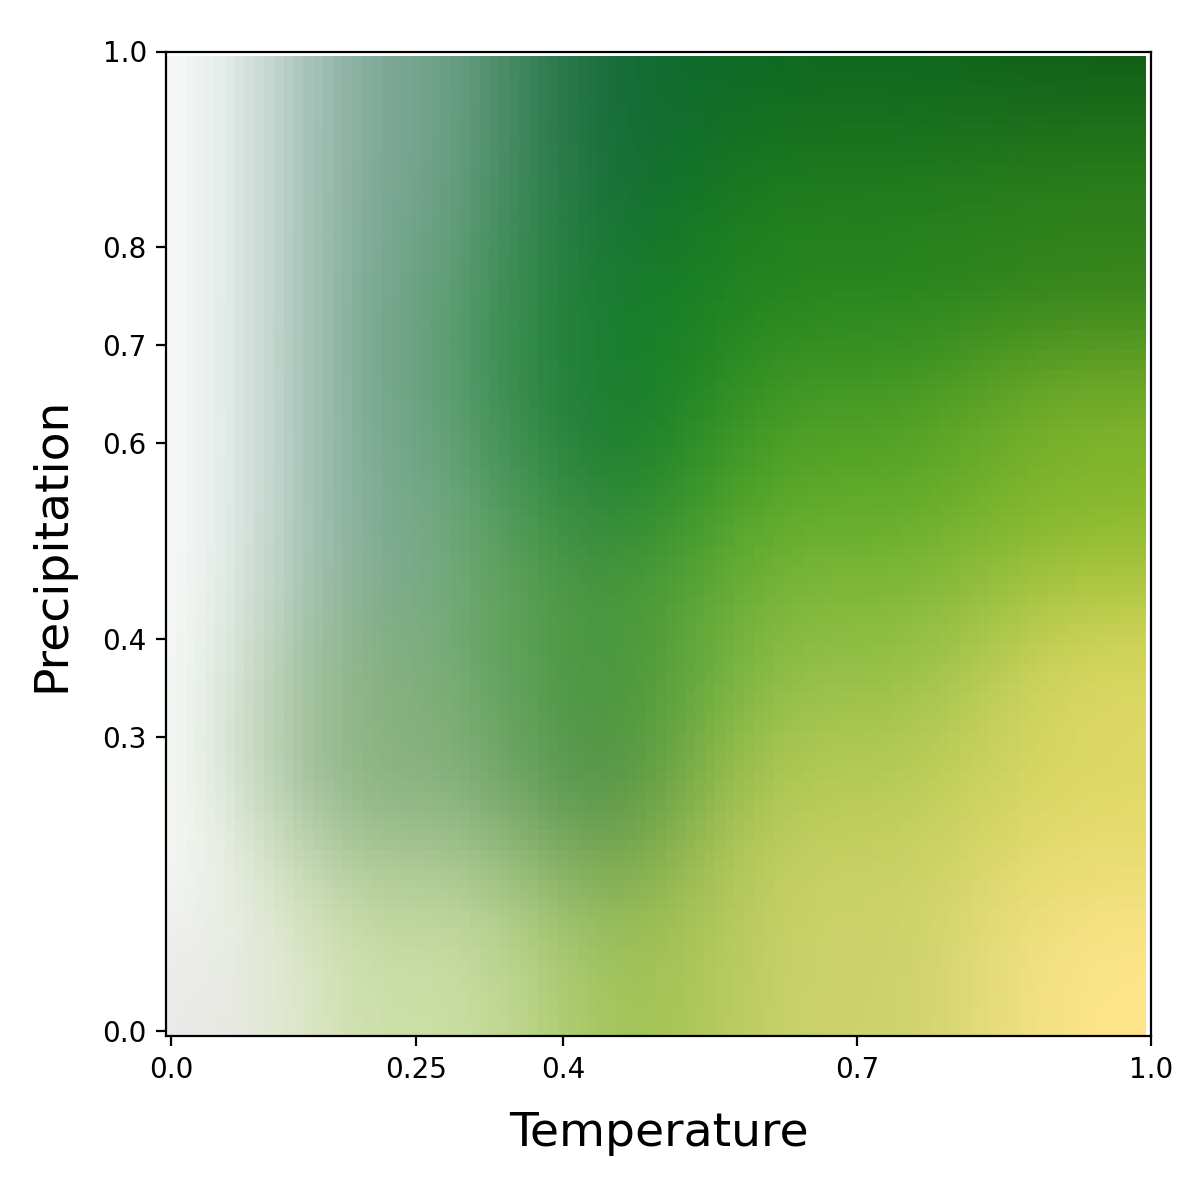
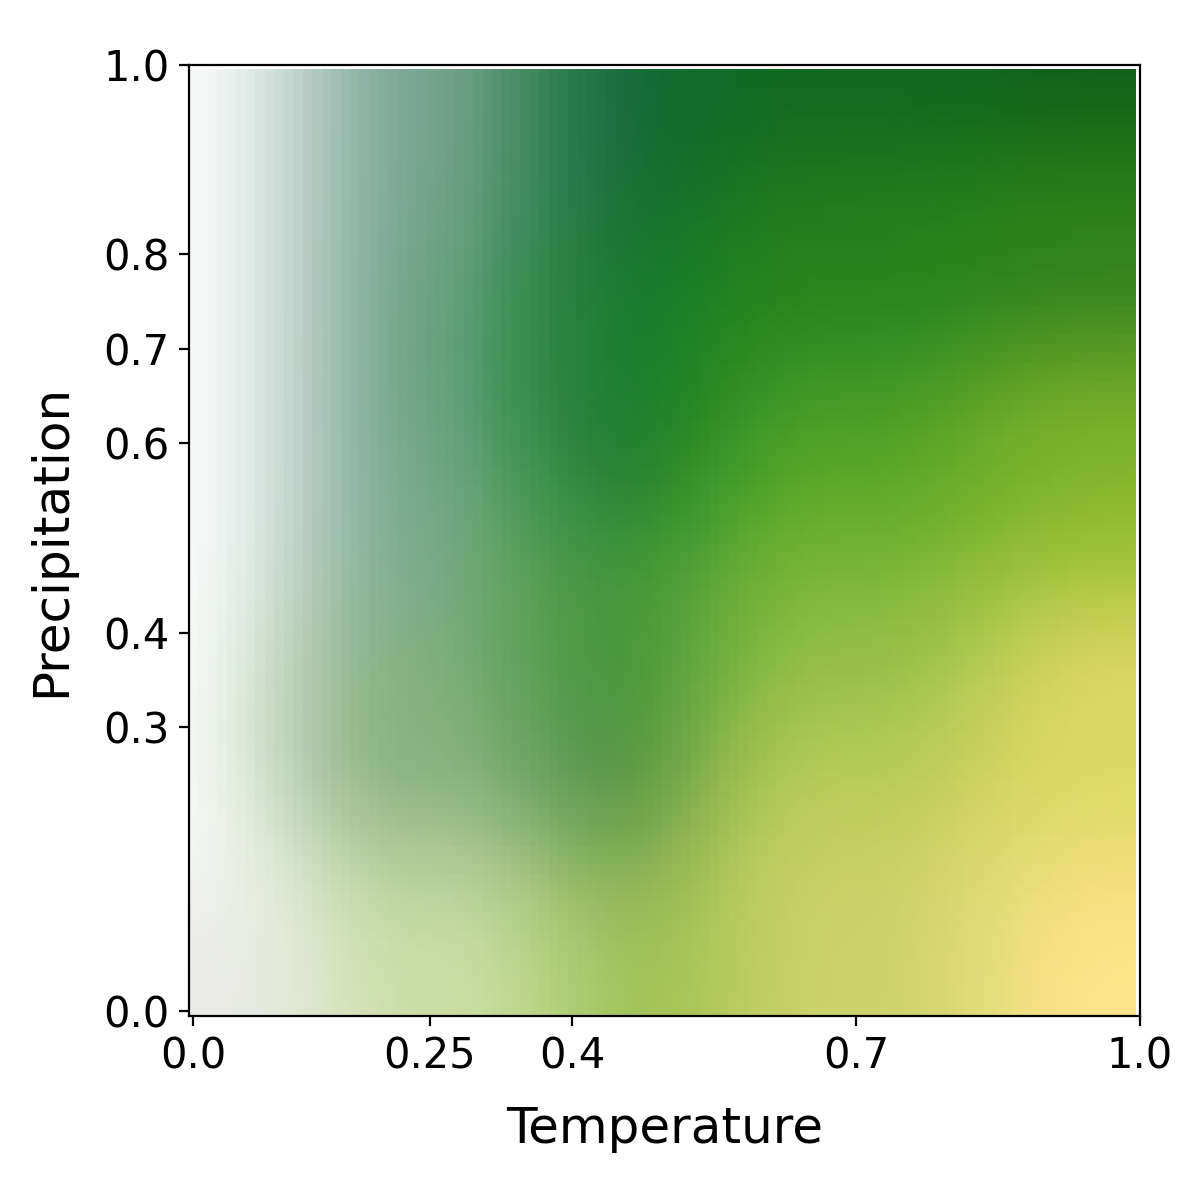
small tweaks to font sizes

Changed region(s): [[0.0617, 0.0308, 0.9867, 0.8942], [0.0308, 0.3083, 0.0617, 0.5858], [0.4317, 0.925, 0.6783, 0.9558]]

diff --git a/visualize_Whittaker_diagram.py b/visualize_Whittaker_diagram.py
@@ -52,12 +52,12 @@ def main():
     plt.figure(figsize=(6, 6))
     plt.imshow(rgb, origin="lower")
     #plt.title("Whittaker Diagram")
-    plt.xlabel("Temperature", fontsize=17, labelpad=10)
-    plt.ylabel("Precipitation", fontsize=17, labelpad=10)
+    plt.xlabel("Temperature", fontsize=18, labelpad=10)
+    plt.ylabel("Precipitation", fontsize=18, labelpad=10)
 
     # text
     font_dict = {
-        "fontsize": 17,
+        "fontsize": 18,
         "horizontalalignment": "center",
         "verticalalignment": "center_baseline"
     }
@@ -72,11 +72,11 @@ def main():
         (85, 15, "Subtropical\ndesert"),
         (47.5, 20, "Grassland")
     ):
-        plt.text(xpos, ypos, " \n".join(labeltext.split("\n"))+" ", **font_dict)
+        pass#plt.text(xpos, ypos, " \n".join(labeltext.split("\n"))+" ", **font_dict)
     
     # only ticks at boundaries:
-    plt.xticks((0, 25, 40, 70, 100), [round(x/100, 2) for x in (0, 25, 40, 70, 100)])
-    plt.yticks((0, 30, 40, 60, 70, 80, 100), [round(x/100, 2) for x in (0, 30, 40, 60, 70, 80, 100)])
+    plt.xticks((0, 25, 40, 70, 100), [round(x/100, 2) for x in (0, 25, 40, 70, 100)], fontsize=15)
+    plt.yticks((0, 30, 40, 60, 70, 80, 100), [round(x/100, 2) for x in (0, 30, 40, 60, 70, 80, 100)], fontsize=15)
 
     # regular ticks
     #plt.xticks(range(0, 100+1, 10), [round(x/100, 2) for x in range(0, 100+1, 10)])
